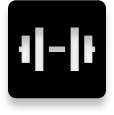
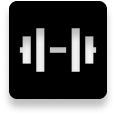
Ajuste de Barra de Navegacion e Iconos

diff --git a/app/_layout.tsx b/app/_layout.tsx
@@ -1,12 +1,72 @@
 import { Tabs } from 'expo-router';
+import { Image, StyleSheet } from 'react-native';
 
 export default function TabLayout() {
   return (
-    <Tabs>
-      <Tabs.Screen name="Training" />
-      <Tabs.Screen name="Sleep" />
-      <Tabs.Screen name="food" />
-      <Tabs.Screen name="Stats" />
+      // Barra de Navegación
+    <Tabs
+      screenOptions={{
+        tabBarShowLabel: false,
+        tabBarStyle: {
+          height: 70,
+          paddingTop: 20,
+        },
+      }}
+    >
+      <Tabs.Screen // Botón de Entreno
+        name="Training"
+        options={{
+          tabBarIcon: ({ color }) => (
+            <Image
+              source={require('../assets/images/TrainingIcon.png')}
+              style={[styles.icon, { tintColor: color }]}
+            />
+          ),
+        }}
+      />
+
+      <Tabs.Screen // Botón de mimir
+        name="Sleep"
+        options={{
+          tabBarIcon: ({ color }) => (
+            <Image
+              source={require('../assets/images/SleepIcon.png')}
+              style={[styles.icon, { tintColor: color }]}
+            />
+          ),
+        }}
+      />
+
+      <Tabs.Screen // Botón de alimentación
+        name="food"
+        options={{
+          tabBarIcon: ({ color }) => (
+            <Image
+              source={require('../assets/images/EatIcon.png')}
+              style={[styles.icon, { tintColor: color }]}
+            />
+          ),
+        }}
+      />
+      <Tabs.Screen // Botón de stats
+        name="Stats"
+        options={{
+          tabBarIcon: ({ color }) => (
+            <Image
+              source={require('../assets/images/DumbbellIcon.png')}
+              style={[styles.icon, { tintColor: color }]}
+            />
+          ),
+        }}
+      />
     </Tabs>
   );
 }
+
+// Estilo de iconos
+const styles = StyleSheet.create({
+  icon: {
+    width: 28,
+    height: 28,
+  },
+});
